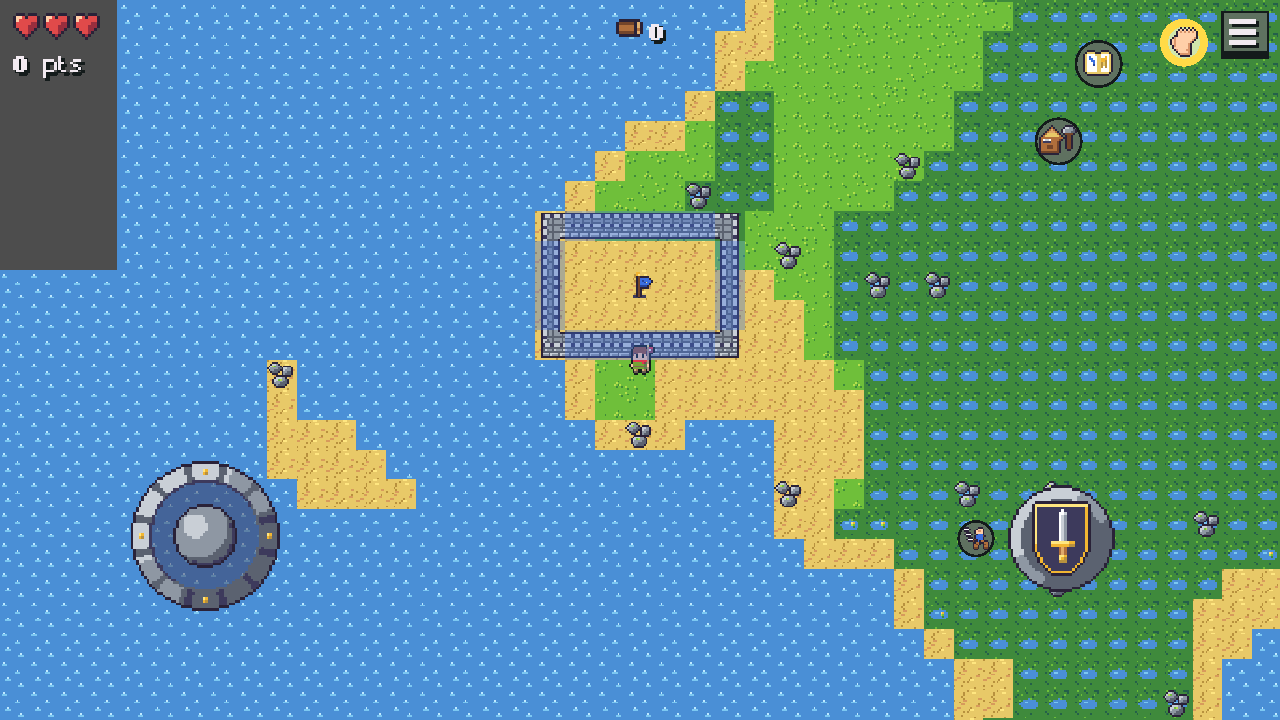
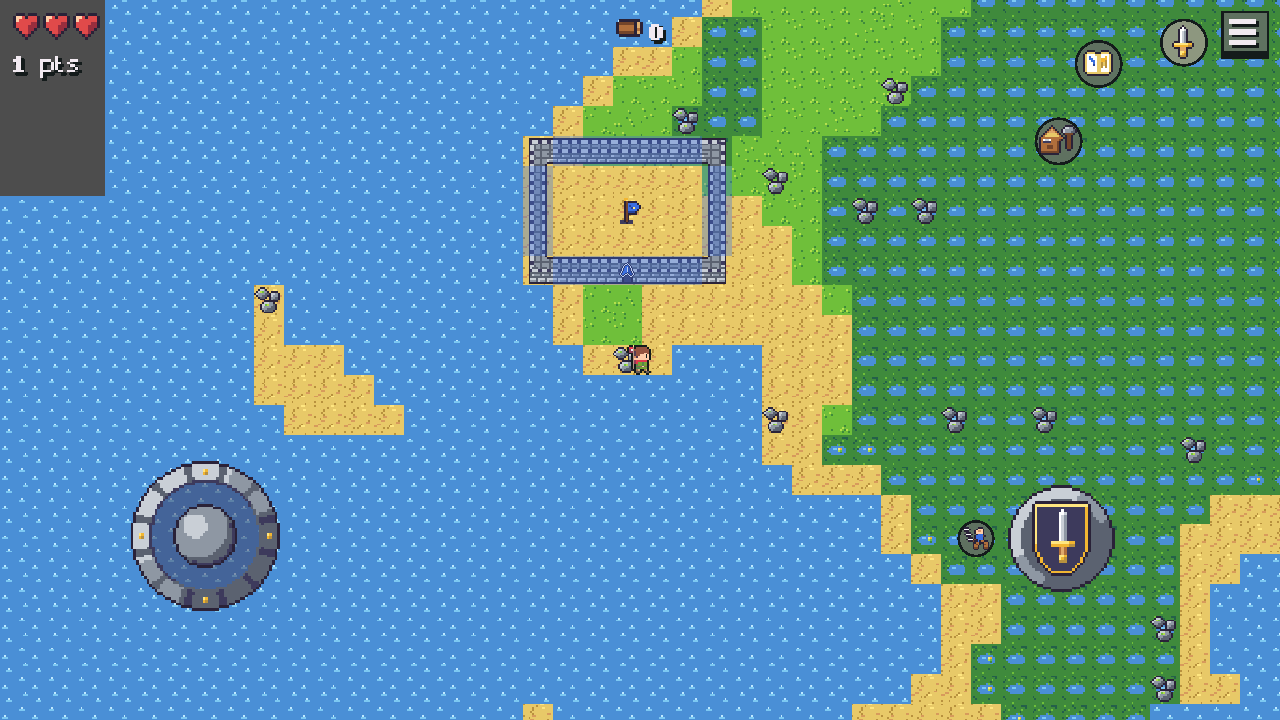
Improve object removals drive evidence and zoom crops
Stage flower and stone next to the hero, pick and destroy with real
inputs, fix zoom framing, use landscape phone viewport, and refresh
committed screenshots plus feature doc.

diff --git a/.cursor/skills/verify-flagoria/features/object-removals-save.md b/.cursor/skills/verify-flagoria/features/object-removals-save.md
@@ -32,8 +32,11 @@ Preconditions: `doctor.sh` exits `0`. Time cost: the two new tests add about
 - **Run.** `./tools/verify.sh` and read `artifacts/verify.log` for
   `-- test_object_removals_round_trip` and `-- test_object_removals_in_game`.
 - **Drive (live).** `bin/launch.sh drives/object_removals_save.gd --display
-  --seed 7` picks a nearby flower, saves, reloads the save, and checks the
-  cell stays empty (`before_pick`, `picked`, `loaded`).
+  --seed 7` stages a flower west and stones east of the hero south of the
+  gate, picks the flower in interact mode, destroys the stone in combat,
+  saves, reloads, and checks both cells stay empty (`01-before_pick`,
+  `02-picked`, `03-loaded`, plus `*-zoom` crops and `04-loaded-phone` at
+  854×480 landscape).
 
 ## Gotchas
 
